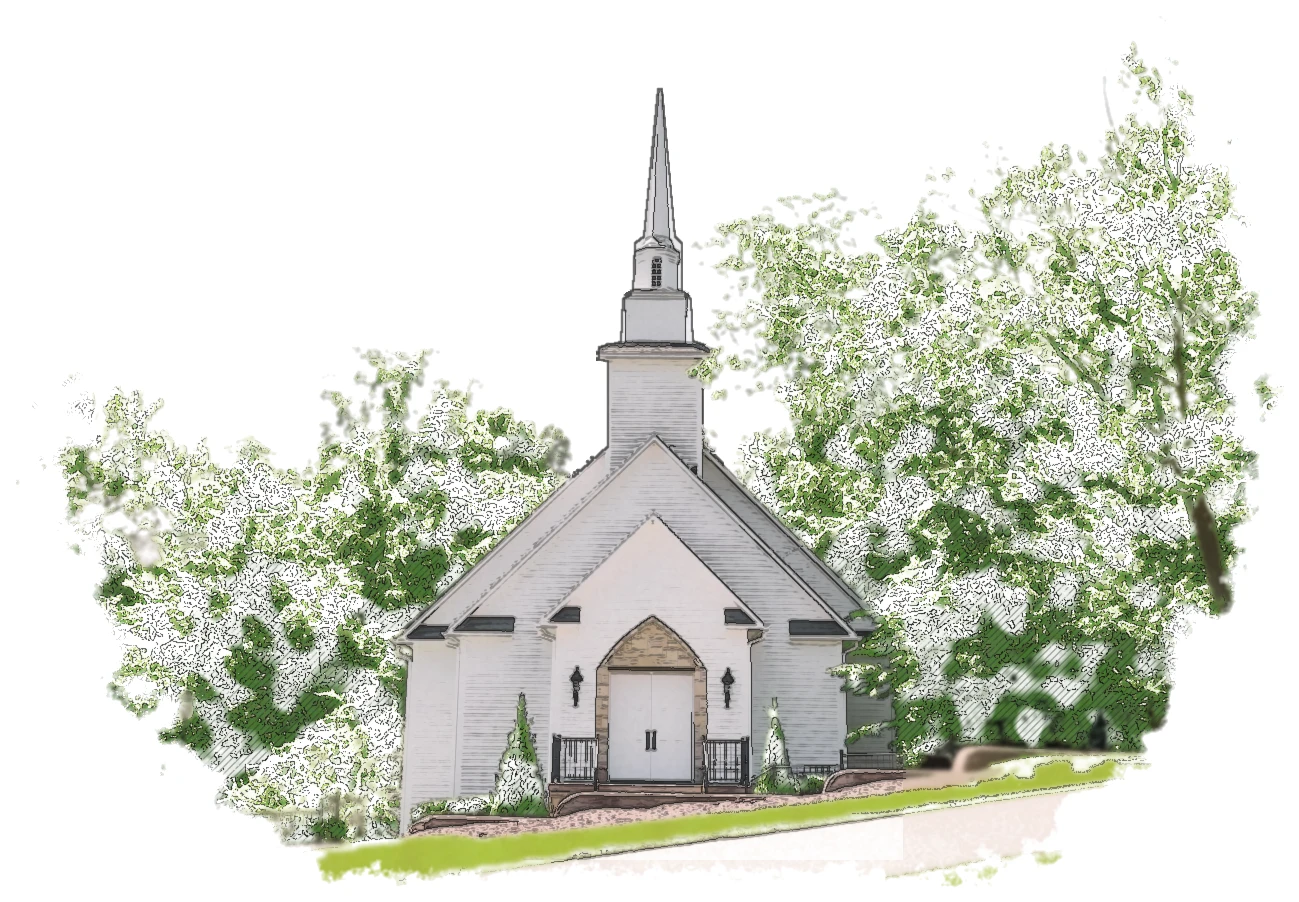
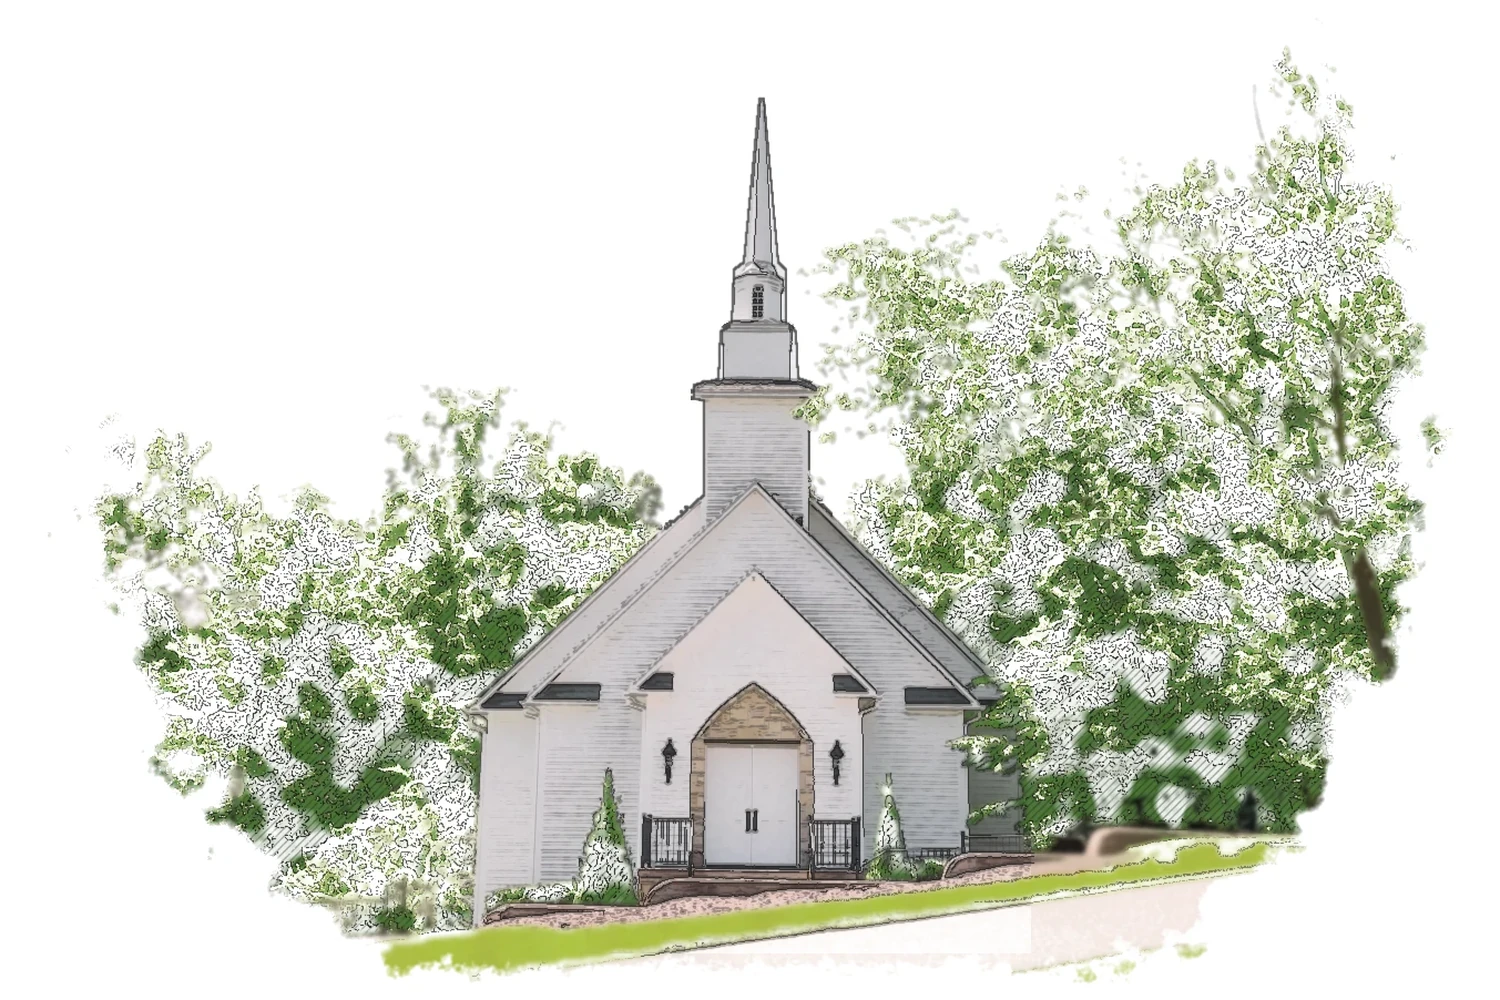
Add files via upload

diff --git a/index.html b/index.html
@@ -273,11 +273,11 @@
   </div>
   <div class="venue-pair">
     <figure class="venue-fig reveal">
-      <img src="chapel.webp" width="1299" height="902" loading="lazy" alt="Watercolor illustration of the white chapel at Hawthorne House with its tall steeple">
+      <img src="chapel.webp" width="1500" height="1000" loading="lazy" alt="Watercolor illustration of the white chapel at Hawthorne House with its tall steeple">
       <figcaption><span>The Ceremony</span>The Chapel</figcaption>
     </figure>
     <figure class="venue-fig reveal">
-      <img src="hawthorne-house.webp" width="1800" height="892" loading="lazy" alt="Watercolor illustration of Hawthorne House, a white farmhouse with a wraparound porch">
+      <img src="hawthorne-house.webp" width="1500" height="1000" loading="lazy" alt="Watercolor illustration of Hawthorne House, a white farmhouse with a wraparound porch">
       <figcaption><span>The Reception</span>Hawthorne House</figcaption>
     </figure>
   </div>
